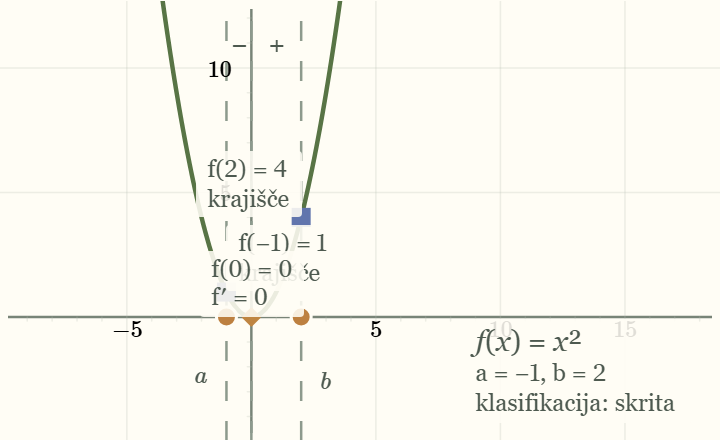
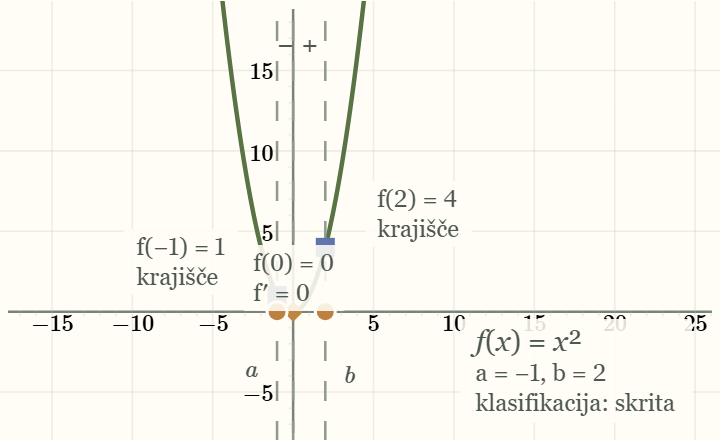
Recapture Batch B previews after the layout fix
Darboux, extrema and convexity previews regenerated from the new default
views (Taylor unchanged); placeholder comments removed from the preview
asset map. Other previews unchanged.

diff --git a/src/demonstrationPreviewAssets.ts b/src/demonstrationPreviewAssets.ts
@@ -37,13 +37,9 @@ import preview_arc_length from './images/demonstrations/catalog/arc-length.png';
 import preview_bisection from './images/demonstrations/catalog/bisection.png';
 import preview_mean_value from './images/demonstrations/catalog/mean-value.png';
 import preview_accumulation from './images/demonstrations/catalog/accumulation.png';
-// Placeholder: a copy of the accumulation preview, replaced by the generated Darboux preview in the Batch B release task.
 import preview_darboux from './images/demonstrations/catalog/darboux.png';
-// Placeholder: a copy of the accumulation preview, replaced by the generated extrema preview in the Batch B release task.
 import preview_extrema from './images/demonstrations/catalog/extrema.png';
-// Placeholder: a copy of the accumulation preview, replaced by the generated convexity preview in the Batch B release task.
 import preview_convexity from './images/demonstrations/catalog/convexity.png';
-// Placeholder: a copy of the accumulation preview, replaced by the generated Taylor preview in the Batch B release task.
 import preview_taylor from './images/demonstrations/catalog/taylor.png';
 
 export const demonstrationPreviewAssets: Record<DemonstrationId, string> = {
